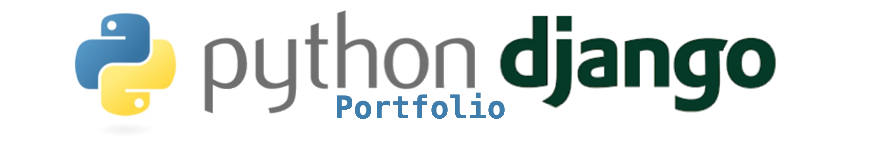
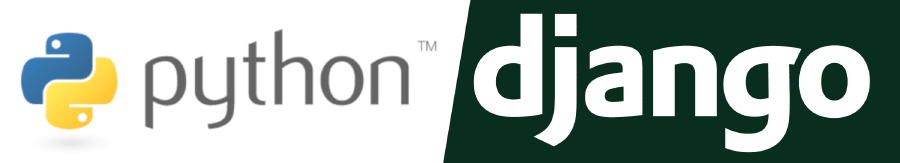
Update portfolio jumbotron
Addresses the following:

- Improves positioning statement for career direction/asprirations
- Replaces generic logo with more targeted one
- Improves the button layout and gives the user less choices within the
  original Jumbotron

Contributes towards: #164

diff --git a/apps/pages/templates/pages/home_sections/jumbotron.html b/apps/pages/templates/pages/home_sections/jumbotron.html
@@ -5,42 +5,56 @@
     <div class="profile-teaser media flex-column flex-lg-row">
       <div class="media-body">
         <h2 class="name font-weight-bold mb-3">Wayne Lambert</h2>
+        <h5 class="font-weight-bold mb-3">🐍  Python Web Engineer</h5>
         <div class="bio mb-4 mr-5">
           <p>
-            Welcome to my portfolio demonstrating skills with Python, Django, Django REST Framework,
-            JavaScript, HTML, Sass, Bootstrap, PostgreSQL, pytest, Docker, and Git.
+            Based in Birmingham in the UK, I'm focused on building scalable,
+            interactive, user-friendly, and well tested web applications with Django.
           </p>
           <p>
-            Feel free to take a look around, review the
+            Feel free to take a look around my portfolio which was built with Python,
+            Django, Postgres, JavaScript, Sass, and Bootstrap.
+          </p>
+          <p>
+            Feel free to review the
             <a href="{% github_portfolio_link %}"
                class="theme-link"
                target="_blank"
                rel="noreferrer"
             >
               source code</a>,
-            or even the project's
-              <a href="{% github_portfolio_issues_link %}" class="theme-link" target="_blank" rel="noreferrer"> open and closed issues</a>
-              on GitHub.
+            or even the
+              <a href="{% github_portfolio_issues_link %}"
+                 class="theme-link"
+                 target="_blank"
+                 rel="noreferrer"
+              >
+                project's issues on GitHub
+              </a>.
           </p>
         </div>
-        <div class="mb-2">
-          <a href="{% url 'pages:portfolio' %}" class="btn btn-primary mr-2 mb-3">
-            <i class="fas fa-briefcase mr-1"></i>
-            <span class="d-none d-md-inline">Portfolio</span>
-          </a>
-          <a href="{% url 'blog:home' %}" class="btn btn-success mr-2 mb-3">
-            <i class="fas fa-blog mr-1"></i>
-            <span class="d-none d-md-inline">Blog</span>
-          </a>
-          <a href="{% github_portfolio_link %}" class="btn btn-link btn-github mr-2 mb-3" target="_blank" rel="noreferrer">
-            <i class="fa fa-github mr-1"></i>
-            <span class="d-none d-md-inline">Code</span>
-          </a>
+        <div class="row">
+          <div class="col-5">
+            <a href="{% url 'pages:portfolio' %}" class="btn btn-primary btn-block mr-2 mb-3">
+              <i class="fas fa-briefcase mr-1"></i>
+              Portfolio
+            </a>
+          </div>
+          <div class="col-5">
+            <a href="{% github_portfolio_link %}" class="btn btn-link btn-github btn-block mr-2 mb-3"
+               target="_blank"
+               rel="noreferrer"
+            >
+              <i class="fa fa-github mr-1"></i>
+              Code
+            </a>
+          </div>
         </div>
       </div>
+
       <img class="profile-image mb-3 mb-lg-0 ml-lg-5 mr-md-0"
-           src="https://wl-portfolio.s3.eu-west-2.amazonaws.com/images/jumbotron.jpg"
-           alt=""
+           src="https://wl-portfolio.s3.eu-west-2.amazonaws.com/images/python-django.png"
+           alt="Python and Django"
       />
     </div>
   </div>
